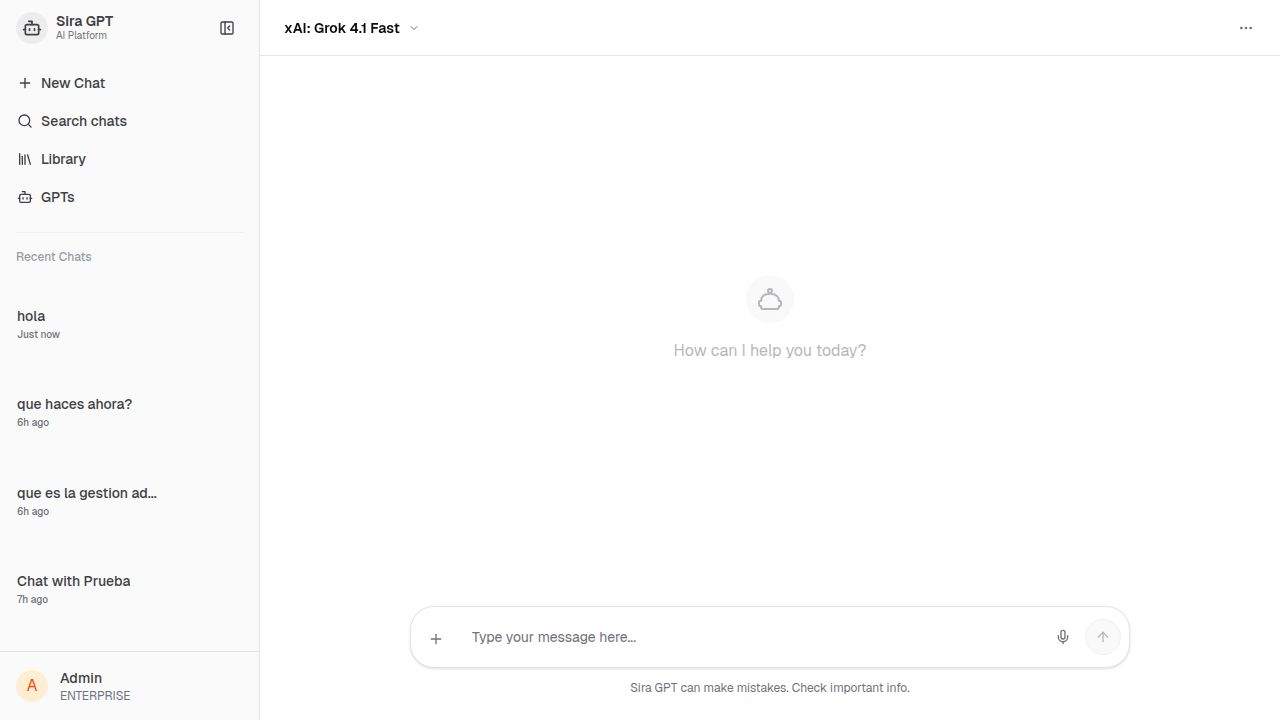
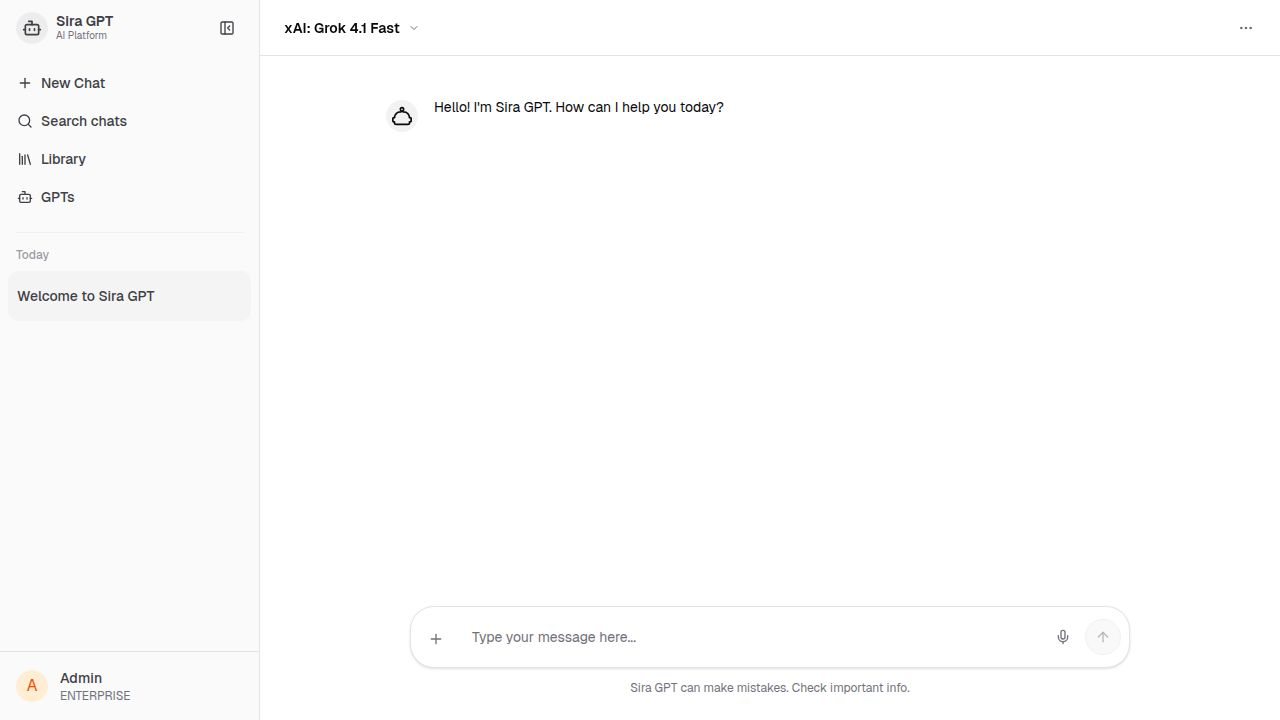
Organize and display chat history with date labels
Refactors the sidebar component to group chats by date using date-fns, adds a delete chat functionality, and improves the ordering of chat groups.

Replit-Commit-Author: Agent
Replit-Commit-Session-Id: 5e246c44-b29b-499b-bcd8-39220059979d
Replit-Commit-Checkpoint-Type: full_checkpoint
Replit-Commit-Event-Id: 41c029d3-9a0c-4430-96f1-a8d1e3137288
Replit-Commit-Screenshot-Url: https://storage.googleapis.com/screenshot-production-us-central1/c8de8182-93b8-40c0-96f1-23c96d638a68/5e246c44-b29b-499b-bcd8-39220059979d/1iKS9kP
Replit-Helium-Checkpoint-Created: true

diff --git a/client/src/components/sidebar.tsx b/client/src/components/sidebar.tsx
@@ -17,8 +17,9 @@ import { Button } from "@/components/ui/button";
 import { ScrollArea } from "@/components/ui/scroll-area";
 import { Separator } from "@/components/ui/separator";
 
-import { Chat, useChats } from "@/hooks/use-chats";
+import { Chat } from "@/hooks/use-chats";
 import { Trash2 } from "lucide-react";
+import { format, isToday, isYesterday, isThisWeek, isThisYear } from "date-fns";
 
 interface SidebarProps {
   className?: string;
@@ -27,6 +28,7 @@ interface SidebarProps {
   onSelectChat: (id: string) => void;
   onNewChat?: () => void;
   onToggle?: () => void;
+  onDeleteChat?: (id: string, e: React.MouseEvent) => void;
 }
 
 export function Sidebar({ 
@@ -35,43 +37,33 @@ export function Sidebar({
   activeChatId, 
   onSelectChat, 
   onNewChat, 
-  onToggle 
+  onToggle,
+  onDeleteChat
 }: SidebarProps) {
-  // We need the helper function from useChats to format dates
-  // Since we can't easily pass the function itself if it's not in props,
-  // we'll just instantiate the hook here solely for the helper or move the helper out.
-  // Better: Move helper out of the hook or just use the hook here for the helper.
-  // Since useChats manages state, we don't want to duplicate state.
-  // Let's just import the hook to get the helper if we can, OR better:
-  // Refactor: We can just recreate the helper here or receive it as a prop.
-  // To keep it clean, I'll assume the parent passes the formatted date or we do it here.
-  // Actually, I'll just use date-fns here directly to group them.
   
-  // Group chats by date label
+  const getChatDateLabel = (timestamp: number) => {
+    const date = new Date(timestamp);
+    if (isToday(date)) return "Today";
+    if (isYesterday(date)) return "Yesterday";
+    if (isThisWeek(date)) return "Previous 7 Days";
+    if (isThisYear(date)) return format(date, "MMM d");
+    return format(date, "yyyy");
+  };
+
+  // Group chats
   const groupedChats = chats.reduce((groups, chat) => {
-    const { getChatDateLabel } = useChats(); // This creates a new state instance, not ideal but works for accessing the helper if it doesn't have side effects on mount.
-    // Wait, useChats has side effects (reading localStorage). 
-    // Let's NOT call useChats here. 
-    // I will modify Home.tsx to pass the grouped structure or just handle simple rendering here.
-    
-    // Simple approach: Just use a local helper.
-    const getLabel = (timestamp: number) => {
-      const date = new Date(timestamp);
-      const now = new Date();
-      // Simple logic to match the hook's intent without importing date-fns everywhere
-      if (date.toDateString() === now.toDateString()) return "Today";
-      // ... actually let's just use the hook in the parent and pass a formatted object?
-      // No, let's just make the sidebar smarter.
-      return "Recent"; 
-    };
-    
-    // actually, let's just modify the Sidebar to accept a `getLabel` prop or similar?
-    // Or just import date-fns here.
+    const label = getChatDateLabel(chat.timestamp);
+    if (!groups[label]) groups[label] = [];
+    groups[label].push(chat);
     return groups;
   }, {} as Record<string, Chat[]>);
 
-  // Let's just use a simple grouping approach directly in the render
-  // I will assume the chats are already sorted.
+  // Order of groups
+  const groupOrder = ["Today", "Yesterday", "Previous 7 Days"];
+  // Add other dynamic keys that might appear
+  Object.keys(groupedChats).forEach(key => {
+    if (!groupOrder.includes(key)) groupOrder.push(key);
+  });
   
   return (
     <div className={cn("flex h-screen w-[260px] flex-col border-r bg-sidebar text-sidebar-foreground", className)}>
